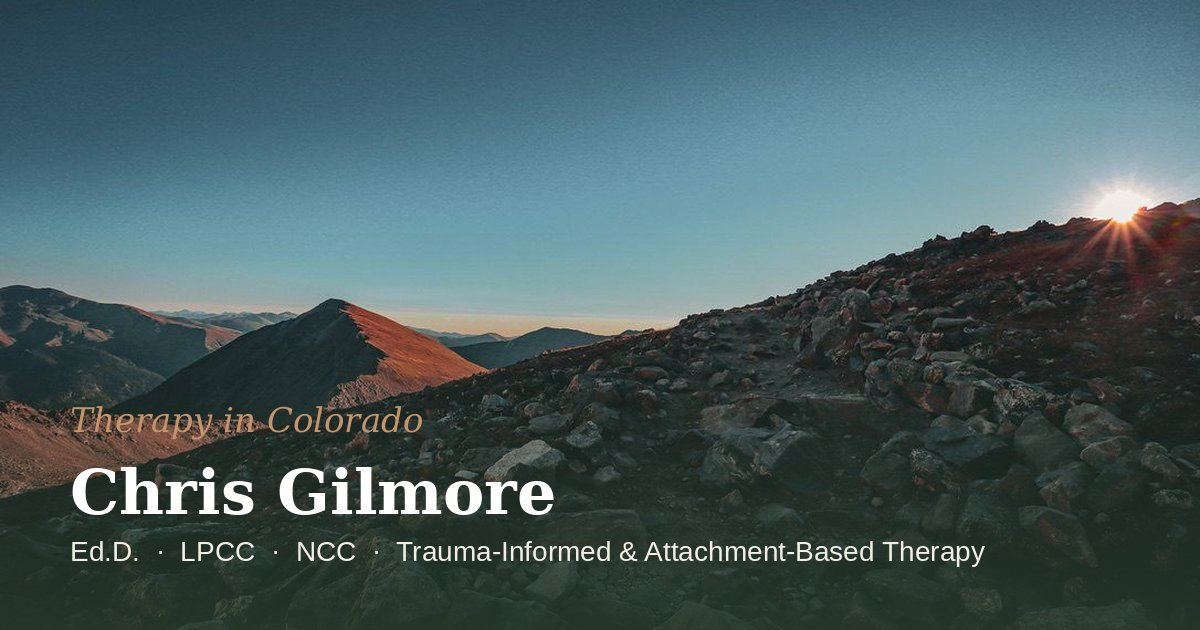
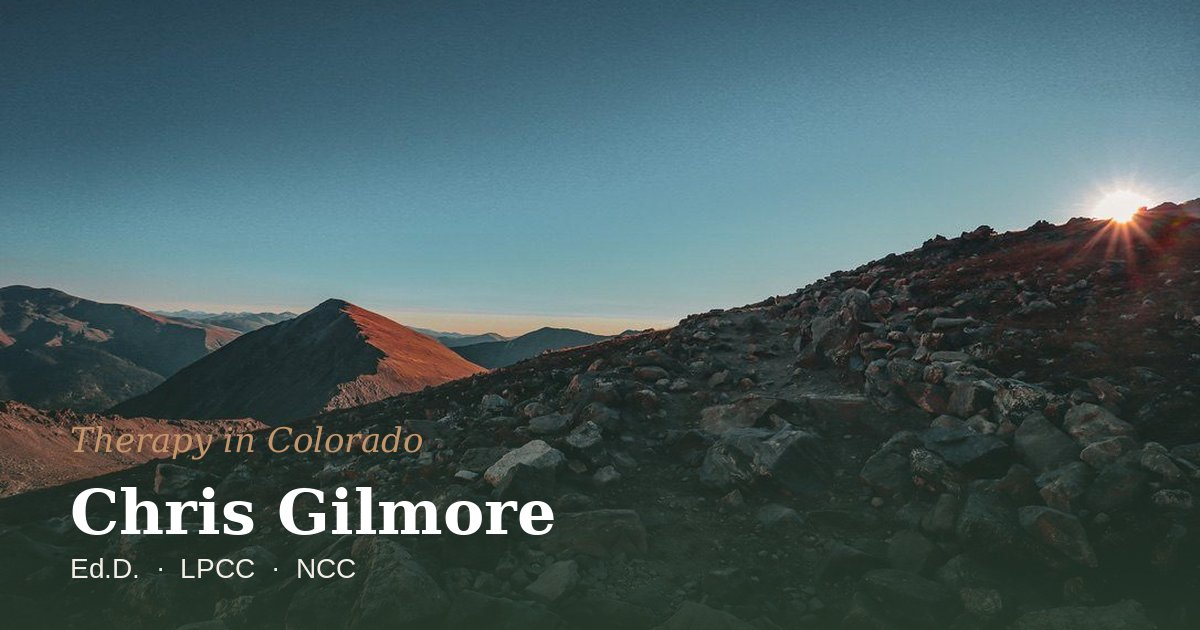
Remove clinical-modality claims from preview/meta copy
Dropped the "trauma-informed, attachment-based" phrasing from meta description, og:description, twitter:description, the og-image text overlay, and the schema.org Person description — kept these to factual name/credentials/location copy per Chris's request to avoid broad clinical claims in preview/meta text.

Claude-Session: https://claude.ai/code/session_01MxBLj3GXAyr4KWpkrWKwFL

Changed region(s): [[0.0617, 0.6333, 0.8325, 0.9349]]

diff --git a/index.html b/index.html
@@ -4,20 +4,20 @@
   <meta charset="UTF-8" />
   <meta name="viewport" content="width=device-width, initial-scale=1.0" />
   <title>Chris Gilmore, Ed.D., LPCC, NCC | Therapy in Colorado</title>
-  <meta name="description" content="Trauma-informed, attachment-based therapy in Colorado with Chris Gilmore, Ed.D., LPCC, NCC. In-person in Evergreen & Wheat Ridge, telehealth statewide. Free initial consultation." />
+  <meta name="description" content="Therapy in Colorado with Chris Gilmore, Ed.D., LPCC, NCC. In-person in Evergreen & Wheat Ridge, telehealth statewide. Free initial consultation." />
 
   <!-- Social share preview (Open Graph / Twitter) -->
   <link rel="canonical" href="https://christophergilmore.com/" />
   <meta property="og:type" content="website" />
   <meta property="og:url" content="https://christophergilmore.com/" />
   <meta property="og:title" content="Chris Gilmore, Ed.D., LPCC, NCC | Therapy in Colorado" />
-  <meta property="og:description" content="Trauma-informed, attachment-based therapy in Colorado. In-person in Evergreen & Wheat Ridge, telehealth statewide. Free initial consultation." />
+  <meta property="og:description" content="Therapy in Colorado with Chris Gilmore, Ed.D., LPCC, NCC. In-person in Evergreen & Wheat Ridge, telehealth statewide. Free initial consultation." />
   <meta property="og:image" content="https://christophergilmore.com/og-image.jpg" />
   <meta property="og:image:width" content="1200" />
   <meta property="og:image:height" content="630" />
   <meta name="twitter:card" content="summary_large_image" />
   <meta name="twitter:title" content="Chris Gilmore, Ed.D., LPCC, NCC | Therapy in Colorado" />
-  <meta name="twitter:description" content="Trauma-informed, attachment-based therapy in Colorado. In-person in Evergreen & Wheat Ridge, telehealth statewide." />
+  <meta name="twitter:description" content="Therapy in Colorado with Chris Gilmore, Ed.D., LPCC, NCC. In-person in Evergreen & Wheat Ridge, telehealth statewide." />
   <meta name="twitter:image" content="https://christophergilmore.com/og-image.jpg" />
 
   <!-- Local business structured data (schema.org) for search visibility -->
@@ -31,7 +31,7 @@
         "name": "Chris Gilmore",
         "honorificSuffix": "Ed.D., LPCC, NCC",
         "jobTitle": "Licensed Professional Counselor Candidate",
-        "description": "Trauma-informed, attachment-based therapist offering EMDR, somatic, and mindfulness-based approaches for adults in Colorado.",
+        "description": "Licensed Professional Counselor Candidate offering individual and couples therapy for adults in Colorado, in-person in Evergreen and Wheat Ridge or via telehealth statewide.",
         "url": "https://christophergilmore.com/",
         "image": "https://christophergilmore.com/about-photo.jpg",
         "email": "mailto:chris@christophergilmore.com",
